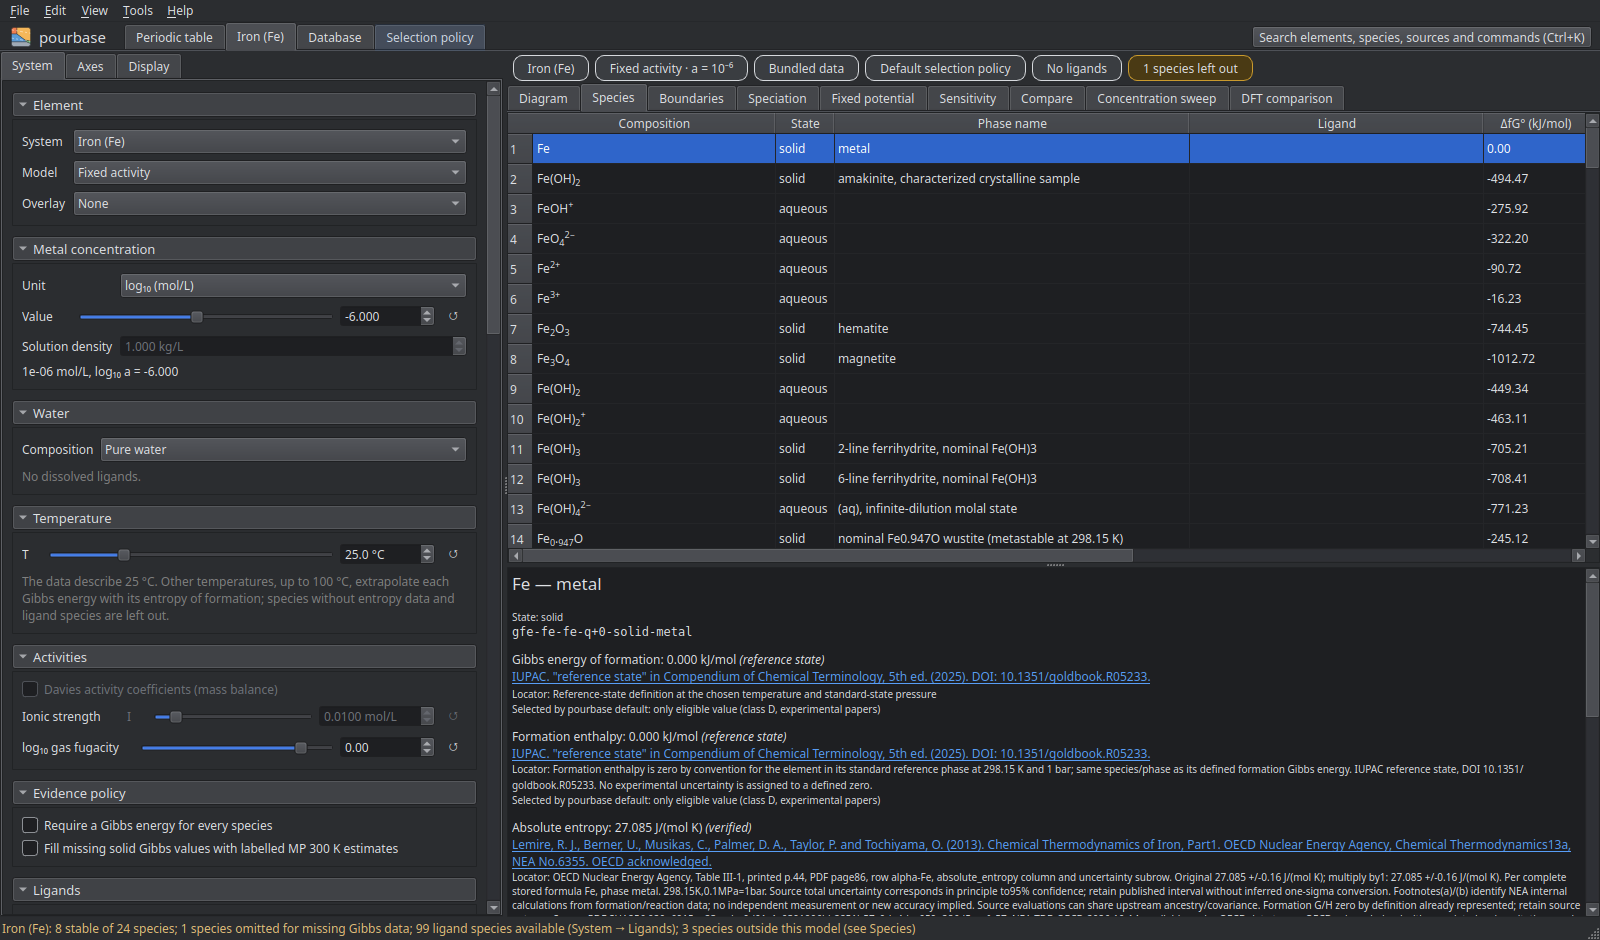
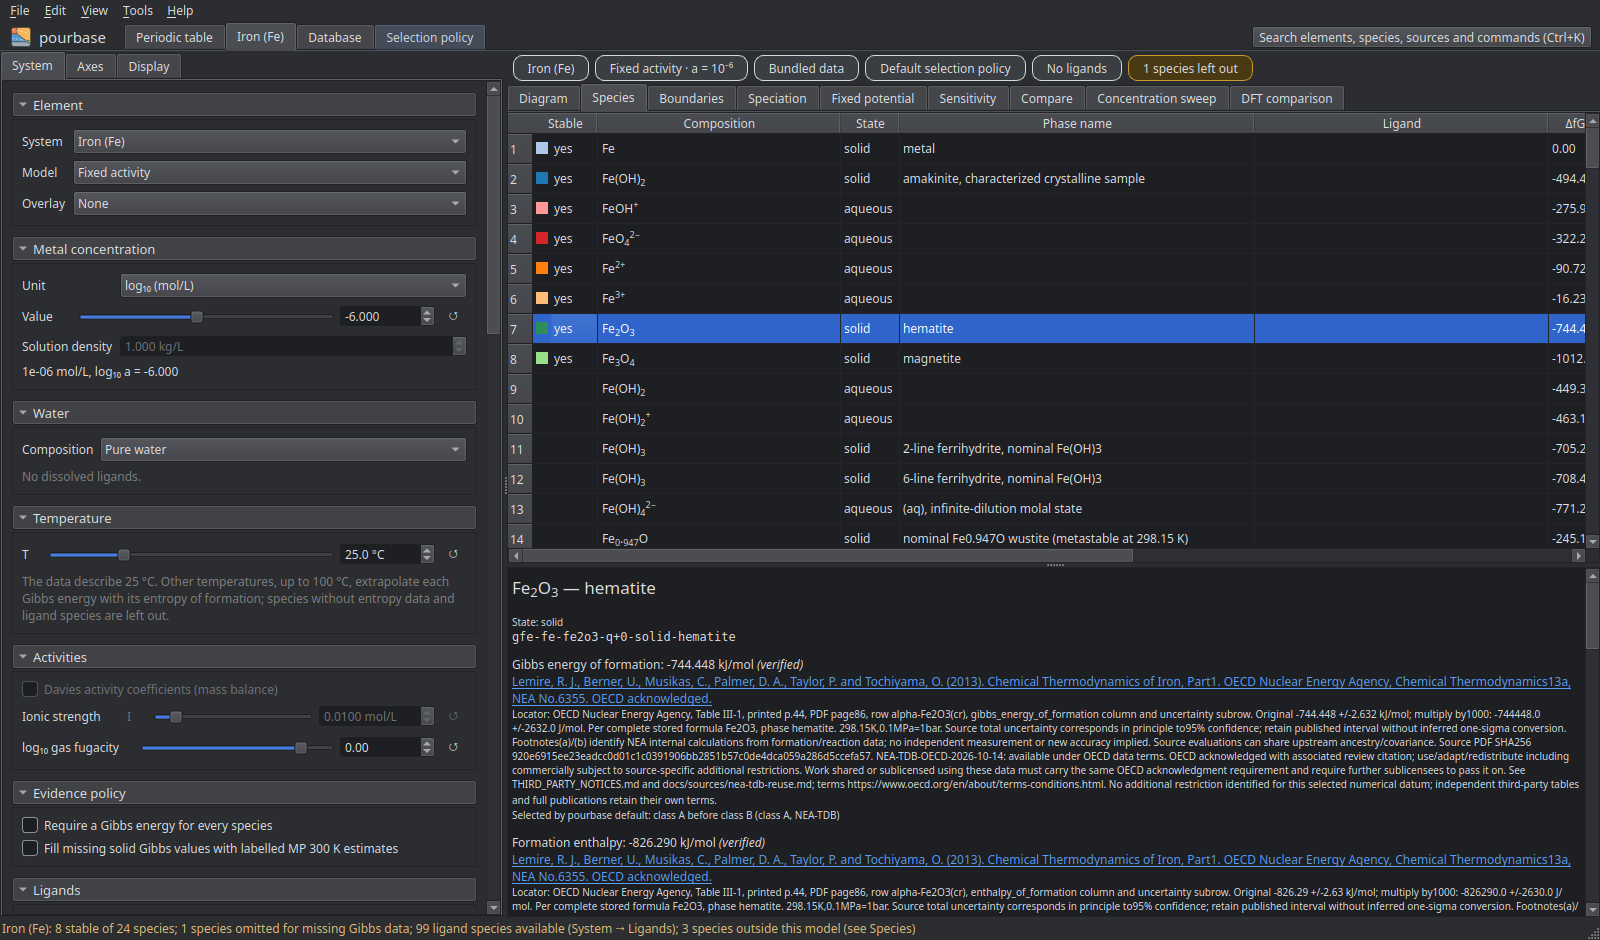
Open highlighted diagram regions from the first Stable column

Changed region(s): [[0.3125, 0.617, 1.0, 0.9872], [0.3125, 0.1234, 1.0, 0.5862], [0.9688, 0.4936, 1.0, 0.5245]]

diff --git a/src/pourbase/gui/pages.py b/src/pourbase/gui/pages.py
@@ -21,7 +21,7 @@ from PySide6.QtWidgets import (
 
 from ..database import ThermodynamicDatabase
 from ..grid import phase_boundary_segments
-from ..inverse import stability_region
+from ..inverse import StabilityRegion, stability_region
 from ..measurements import assess_points
 from ..paths import phase_path
 from ..records import PropertyValue, SourceReference, SpeciesRecord
@@ -103,14 +103,14 @@ def source_html(source: SourceReference | None) -> str:
     return citation + locator
 
 
-def _table(columns: list[str]) -> QTableWidget:
+def _table(columns: list[str], *, formula_column: int = 0) -> QTableWidget:
     table = QTableWidget(0, len(columns))
     table.setHorizontalHeaderLabels(columns)
     table.setEditTriggers(QAbstractItemView.NoEditTriggers)
     table.horizontalHeader().setSectionResizeMode(QHeaderView.ResizeToContents)
     table.horizontalHeader().setHighlightSections(False)  # Qt draws the selected row's header in bold
     table.verticalHeader().setHighlightSections(False)
-    table.setItemDelegateForColumn(0, formula_delegate(table))
+    table.setItemDelegateForColumn(formula_column, formula_delegate(table))
     return table
 
 
@@ -161,10 +161,11 @@ class DiagramPage(StackedView):
         self.display = DisplayOptions()
         self.diagram.cursorMoved.connect(self._show_cursor)
         self.cursor.hide()
-        self.diagram.probeMoved.connect(self.probeMoved)
+        self.diagram.probeMoved.connect(self._diagram_probe_moved)
         self.diagram.boundaryClicked.connect(self.show_boundary)
         self.diagram.clickable_boundaries = True
         self.calculation: Calculation | None = None
+        self.highlighted_record: str | None = None
         self.path_panel.changed.connect(self.update_tools)
         self.path_panel.probeRequested.connect(self.probeMoved)
         self.path_panel.pickRequested.connect(
@@ -211,17 +212,52 @@ class DiagramPage(StackedView):
         self.region_panel.set_species(diagram.system.species)
         target, margin, sigma = self.region_panel.options()
         if self.tools.currentWidget() is self.region_panel and target:  # shaded while its panel is open
+            self.highlighted_record = None
             region = stability_region(calculation, target, margin, sigma)
             names = {item.record_id: item.species for item in diagram.system.species}
             self.diagram.show_region(region)
             self.region_panel.show_region(region, self.region_panel.kinds.get(target) or names.get(target, target),
                                           calculation.is_mass_balance)
+        elif self.highlighted_record is not None:
+            # Follow the displayed record IDs exactly, including cells assigned at an energy tie.
+            mask = self._highlight_mask(self.highlighted_record)
+            region = StabilityRegion(self.highlighted_record, diagram.pH, diagram.U_V,
+                                     np.full(mask.shape, np.nan), mask, 0.0, None)
+            self.diagram.show_region(region)
         else:
             self.diagram.show_region(None)
         assessments = assess_points(calculation, self.points_panel.points)
         self.points_panel.show_assessments(assessments)
         self.diagram.show_points([(item.point.label, item.point.pH, item.point.U_V, item.within_uncertainty)
                                   for item in assessments if item.inside])
+
+    def _highlight_mask(self, record_id: str) -> np.ndarray:
+        diagram = self.calculation.diagram
+        members = np.array([item.record_id == record_id for item in diagram.system.species])
+        return members[diagram.stable_species_index]
+
+    def highlight_species(self, record_id: str) -> tuple[float, float] | None:
+        """Highlight every displayed region of this record and return a probe point inside it."""
+        if self.calculation is None:
+            return None
+        mask = self._highlight_mask(record_id)
+        locations = np.argwhere(mask)
+        if not len(locations):
+            return None
+        self.highlighted_record = record_id
+        self.tools.setCurrentWidget(self.probe)
+        self.update_tools()
+        # Project the region's centre onto an actual cell, including disconnected or concave regions.
+        distances = (((locations - locations.mean(axis=0)) / np.array(mask.shape)) ** 2).sum(axis=1)
+        row, column = locations[int(np.argmin(distances))]
+        diagram = self.calculation.diagram
+        return float(diagram.pH[column]), float(diagram.U_V[row])
+
+    def _diagram_probe_moved(self, pH: float, U_V: float) -> None:
+        if self.highlighted_record is not None:
+            self.highlighted_record = None
+            self.update_tools()
+        self.probeMoved.emit(pH, U_V)
 
     def show_boundary(self, first: str, second: str, position) -> None:
         """A popup with the reaction, equation and sources of the boundary between two species."""
@@ -275,6 +311,8 @@ class DiagramPage(StackedView):
         super().hideEvent(event)
 
     def show_calculation(self, calculation: Calculation, display: DisplayOptions, reset_range: bool) -> None:
+        if self.calculation is None or self.calculation.diagram is not calculation.diagram:
+            self.highlighted_record = None
         self.calculation = calculation
         self.hide_boundary()
         plating = calculation.plating[0].potential_V_vs_SHE if calculation.plating else None
@@ -392,20 +430,26 @@ class DiagramPage(StackedView):
 class SpeciesPage(QSplitter):
     """Every species of the system with its full evidence record."""
 
-    COLUMNS = ["Composition", "State", "Phase name", "Ligand", "ΔfG° (kJ/mol)", "±", "Status", "Class", "Spread (kJ/mol)", "Stable",
+    speciesActivated = Signal(str)
+
+    COLUMNS = ["Stable", "Composition", "State", "Phase name", "Ligand", "ΔfG° (kJ/mol)", "±", "Status", "Class", "Spread (kJ/mol)",
                "Warnings", "Record ID"]
-    ENERGY, STATUS, SPREAD, STABLE, RECORD = 4, 6, 8, 9, 11
+    STABLE, COMPOSITION, STATE, PHASE, ENERGY, STATUS, SPREAD, RECORD = 0, 1, 2, 3, 5, 7, 9, 11
     PROPERTIES = (("Gibbs energy of formation", "gibbs_energy_of_formation", "gibbs_energy_J_mol", "kJ/mol", 1000),
                   ("Formation enthalpy", "enthalpy_of_formation", "formation_enthalpy_J_mol", "kJ/mol", 1000),
                   ("Absolute entropy", "absolute_entropy", "entropy_J_mol_K", "J/(mol K)", 1))
 
     def __init__(self, parent=None) -> None:
         super().__init__(Qt.Vertical, parent)
-        self.table = _table(self.COLUMNS)
+        self.table = _table(self.COLUMNS, formula_column=self.COMPOSITION)
         self.table.setSelectionBehavior(QAbstractItemView.SelectRows)
         self.table.setSelectionMode(QAbstractItemView.SingleSelection)
         self.table.setSortingEnabled(True)
         self.table.itemSelectionChanged.connect(self._show_details)
+        self.table.cellClicked.connect(self._activate_stable_cell)
+        self.table.cellActivated.connect(self._activate_stable_cell)
+        self.table.setMouseTracking(True)
+        self.table.cellEntered.connect(self._stable_cursor)
         self.details = QTextBrowser()
         self.details.setOpenExternalLinks(True)
         self.addWidget(self.table)
@@ -466,18 +510,18 @@ class SpeciesPage(QSplitter):
             composition = composition_text(record.formula_ascii, record.charge)
             phase = phase_label(record)
             values = [
-                composition, record.phase, phase if phase != record.phase else "",
+                "yes" if record_id in stable else "", composition, record.phase, phase if phase != record.phase else "",
                 ligand_names.get(ligand, ligand or ""),
                 kilojoules(energy if energy is not None else gibbs.value), kilojoules(gibbs.uncertainty),
                 hold_label(status, record), selection.chosen.evidence_class if selection else "",
                 kilojoules(spread) if spread is not None else "",
-                "yes" if record_id in stable else "", str(len(record.warnings)), record_id,
+                str(len(record.warnings)), record_id,
             ]
             for column, value in enumerate(values):
                 cell = QTableWidgetItem(value)
                 if column in (self.ENERGY, self.SPREAD) and value:
                     cell.setData(Qt.EditRole, float(value))
-                if column == 0:
+                if column == self.COMPOSITION:
                     cell.setToolTip(f"{species_label(record.formula_ascii, record.charge, phase)}\n"
                                     f"Recorded name: {record.species}")
                 if column == self.SPREAD and flagged:
@@ -486,7 +530,10 @@ class SpeciesPage(QSplitter):
                                     f"({len(selection.candidates)} values)")
                 if column == self.STABLE and record_id in swatches:
                     cell.setIcon(_swatch(swatches[record_id]))
-                    cell.setToolTip("Color of this species in the diagram")
+                    cell.setData(Qt.UserRole, record_id)
+                    cell.setToolTip("Click to open the diagram and highlight this species. The swatch matches its color.")
+                elif column == self.STABLE:
+                    cell.setToolTip("No stable region in the current diagram")
                 if excluded:
                     cell.setForeground(Qt.gray)
                 table.setItem(index, column, cell)
@@ -505,6 +552,17 @@ class SpeciesPage(QSplitter):
         if rows:
             table.selectRow(target)
             table.scrollToItem(table.item(target, 0))
+
+    def _activate_stable_cell(self, row: int, column: int) -> None:
+        if column == self.STABLE:
+            item = self.table.item(row, column)
+            if item is not None and item.data(Qt.UserRole):
+                self.speciesActivated.emit(item.data(Qt.UserRole))
+
+    def _stable_cursor(self, row: int, column: int) -> None:
+        item = self.table.item(row, column)
+        active = column == self.STABLE and item is not None and item.data(Qt.UserRole)
+        self.table.viewport().setCursor(Qt.PointingHandCursor if active else Qt.ArrowCursor)
 
     def _show_details(self) -> None:
         selected = self.table.selectedItems()

diff --git a/tests/test_gui.py b/tests/test_gui.py
@@ -617,7 +617,7 @@ class WindowTests(WindowTestCase):
                   and window.calculation.diagram.stable_species_index.shape
                   == (window.settings.U_points, window.settings.pH_points))
         table = window.species_page.table
-        self.assertEqual(table.item(table.currentRow(), 2).text(), "cuprite")
+        self.assertEqual(table.item(table.currentRow(), window.species_page.PHASE).text(), "cuprite")
         self.open("Fe")
 
     def test_species_show_composition_state_and_phase_with_searchable_aliases(self) -> None:
@@ -636,7 +636,7 @@ class WindowTests(WindowTestCase):
         for record_id, phase in phases.items():
             row = next(i for i in range(page.table.rowCount())
                        if page.table.item(i, page.RECORD).text() == record_id)
-            self.assertEqual([page.table.item(row, i).text() for i in range(3)],
+            self.assertEqual([page.table.item(row, i).text() for i in (page.COMPOSITION, page.STATE, page.PHASE)],
                              ["Al(OH)₃", "solid", phase])
         page.table.selectRow(row)
         details = page.details.toPlainText()
@@ -648,6 +648,81 @@ class WindowTests(WindowTestCase):
         match = rank(window._search_entries(), "alohmic")[0]
         self.assertEqual(match.title, "Al(OH)₃ — microcrystalline aluminium hydroxide")
         self.assertIn("AlOHmic", match.detail)
+        self.open("Fe")
+
+    def test_stable_column_opens_and_highlights_the_record_after_sorting(self) -> None:
+        from PySide6.QtCore import Qt
+        from PySide6.QtTest import QTest
+        from pourbase.gui.plots import DisplayOptions
+        from pourbase.gui.scales import resample
+
+        window = self.window
+        self.open("Fe")
+        window.pages.setCurrentIndex(1)
+        window.views.setCurrentWidget(window.species_page)
+        window.show()
+        self.app.processEvents()
+        try:
+            page = window.species_page
+            self.assertEqual(page.table.horizontalHeaderItem(0).text(), "Stable")
+            page.table.sortItems(page.COMPOSITION, Qt.DescendingOrder)
+            record_id = "gfe-fe-fe2o3-q+0-solid-hematite"
+            row = next(i for i in range(page.table.rowCount())
+                       if page.table.item(i, page.RECORD).text() == record_id)
+            cell = page.table.item(row, page.STABLE)
+            self.assertEqual(cell.text(), "yes")
+            page.table.scrollToItem(cell)
+            self.app.processEvents()
+            QTest.mouseClick(page.table.viewport(), Qt.LeftButton,
+                             pos=page.table.visualItemRect(cell).center())
+            self.assertIs(window.views.currentWidget(), window.diagram_page)
+            self.assertEqual(window.diagram_page.highlighted_record, record_id)
+            diagram = window.calculation.diagram
+            index = next(i for i, item in enumerate(diagram.system.species) if item.record_id == record_id)
+            mask = diagram.stable_species_index == index
+            image = window.diagram_page.diagram.region_image.image
+            np.testing.assert_array_equal(image[..., 3] == 0, mask)
+            self.assertEqual(window.calculation.probe(window.settings.probe_pH,
+                                                     window.settings.probe_U_V).species.record_id, record_id)
+            window.panel.potential_scale.setCurrentIndex(window.panel.potential_scale.findData("RHE"))
+            _axis, rows, valid = resample(diagram.pH, diagram.U_V, "RHE", diagram.conditions.temperature_K)
+            image = window.diagram_page.diagram.region_image.image
+            np.testing.assert_array_equal((image[..., 3] == 0) & valid,
+                                          mask[rows, np.arange(diagram.pH.size)[None, :]] & valid)
+            window.diagram_page.diagram._probe_moved()
+            self.assertIsNone(window.diagram_page.highlighted_record)
+            self.assertIsNone(window.diagram_page.diagram.region_image.image)
+        finally:
+            window.panel.set_display(DisplayOptions())
+            window.refresh_view()
+            window.hide()
+
+    def test_stable_navigation_ignores_blank_cells_and_other_columns(self) -> None:
+        window = self.window
+        self.open("Fe")
+        window.views.setCurrentWidget(window.species_page)
+        page = window.species_page
+        blank = next(i for i in range(page.table.rowCount()) if not page.table.item(i, page.STABLE).text())
+        page.table.cellClicked.emit(blank, page.STABLE)
+        self.assertIs(window.views.currentWidget(), page)
+        row = next(i for i in range(page.table.rowCount()) if page.table.item(i, page.STABLE).text())
+        page.table.cellClicked.emit(row, page.COMPOSITION)
+        self.assertIs(window.views.currentWidget(), page)
+
+    def test_keyboard_stable_activation_works_in_mass_balance_and_clears_for_a_new_system(self) -> None:
+        window = self.window
+        self.open("Fe", mode="mass_balance")
+        window.views.setCurrentWidget(window.species_page)
+        page = window.species_page
+        row = next(i for i in range(page.table.rowCount()) if page.table.item(i, page.STABLE).text())
+        record_id = page.table.item(row, page.RECORD).text()
+        page.table.cellActivated.emit(row, page.STABLE)
+        self.assertIs(window.views.currentWidget(), window.diagram_page)
+        self.assertEqual(window.diagram_page.highlighted_record, record_id)
+        self.assertGreater(np.sum(window.diagram_page.diagram.region_image.image[..., 3] == 0), 0)
+        self.open("Cu")
+        self.assertIsNone(window.diagram_page.highlighted_record)
+        self.assertIsNone(window.diagram_page.diagram.region_image.image)
         self.open("Fe")
 
     def test_sweep_runs_in_the_background_and_is_cached(self) -> None:
@@ -729,7 +804,7 @@ class WindowTests(WindowTestCase):
         window.views.setCurrentWidget(window.species_page)
         self.app.processEvents()
         page = window.species_page
-        flagged = [page.table.item(row, 0).text() for row in range(page.table.rowCount())
+        flagged = [page.table.item(row, page.COMPOSITION).text() for row in range(page.table.rowCount())
                    if page.table.item(row, page.SPREAD).toolTip()]
         self.assertIn("Co₃O₄", flagged)
         statuses = {page.table.item(row, page.STATUS).text() for row in range(page.table.rowCount())}

diff --git a/src/pourbase/gui/window.py b/src/pourbase/gui/window.py
@@ -170,6 +170,7 @@ class MainWindow(QMainWindow):
         self.diagram_page.probeMoved.connect(self.set_probe)
         self.diagram_page.speciesRequested.connect(lambda: self.views.setCurrentWidget(self.species_page))
         self.species_page = SpeciesPage()
+        self.species_page.speciesActivated.connect(self.show_species_on_diagram)
         self.boundaries_page = BoundariesPage()
         self.speciation_page = SpeciationPage()
         self.sensitivity_page = SensitivityPage()
@@ -1608,6 +1609,18 @@ class MainWindow(QMainWindow):
             self.open_element(symbol)
         self.views.setCurrentWidget(self.species_page)
         self.refresh_view()
+
+    def show_species_on_diagram(self, record_id: str) -> None:
+        """Open the current diagram with this stable record highlighted."""
+        if self.calculation is None or not any(item.record_id == record_id
+                                               for item in self.calculation.stable_species):
+            return
+        self.pages.setCurrentIndex(1)
+        self.views.setCurrentWidget(self.diagram_page)
+        self.refresh_view()
+        point = self.diagram_page.highlight_species(record_id)
+        if point is not None:
+            self.set_probe(*point)
 
     def show_sources(self) -> None:
         """The publications behind the shown diagram, with BibTeX export."""

diff --git a/docs/app/views.md b/docs/app/views.md
@@ -16,6 +16,7 @@ The Species view lists the species of the system.
 
 | Column | Shows |
 |---|---|
+| Stable | First column: whether the species is stable anywhere in the diagram; click its marker to open the diagram and highlight its region |
 | Composition | The complete chemical formula, including the charge of an ion |
 | State | Solid, aqueous, gas or liquid |
 | Phase name | The mineral, polymorph or other phase description, such as gibbsite or microcrystalline aluminium hydroxide |
@@ -23,7 +24,6 @@ The Species view lists the species of the system.
 | Status | The status of the recommended Gibbs energy, or why the species is left out |
 | Class | The evidence class (A–F) of the source of the recommended value |
 | Spread (kJ/mol) | The range of the eligible Gibbs energies, marked when it is larger than the policy's review threshold |
-| Stable | Whether the species is stable anywhere in the diagram; the swatch matches its diagram color |
 | Warnings | The number of notes on the record |
 | Record ID | The identifier in the database |
 
@@ -32,6 +32,9 @@ and the absolute entropy, it gives the recommended value with its status, eviden
 and the reason the policy chose it. Below that are the other reported values with their status and source, with
 the ineligible ones marked. The record ends with the phase identity, any Materials Project estimate and the notes.
 Species that were left out are listed with the reason.
+Clicking a marked **Stable** cell outlines that species' regions, fades the surrounding diagram
+and places the probe inside one of its regions. Its color swatch matches the diagram. Click the
+diagram to clear the highlight and inspect another point.
 
 Record headings and Search show the composition together with the phase name, for example
 **Al(OH)₃ — gibbsite**. Different phases keep separate records even when their compositions match.
